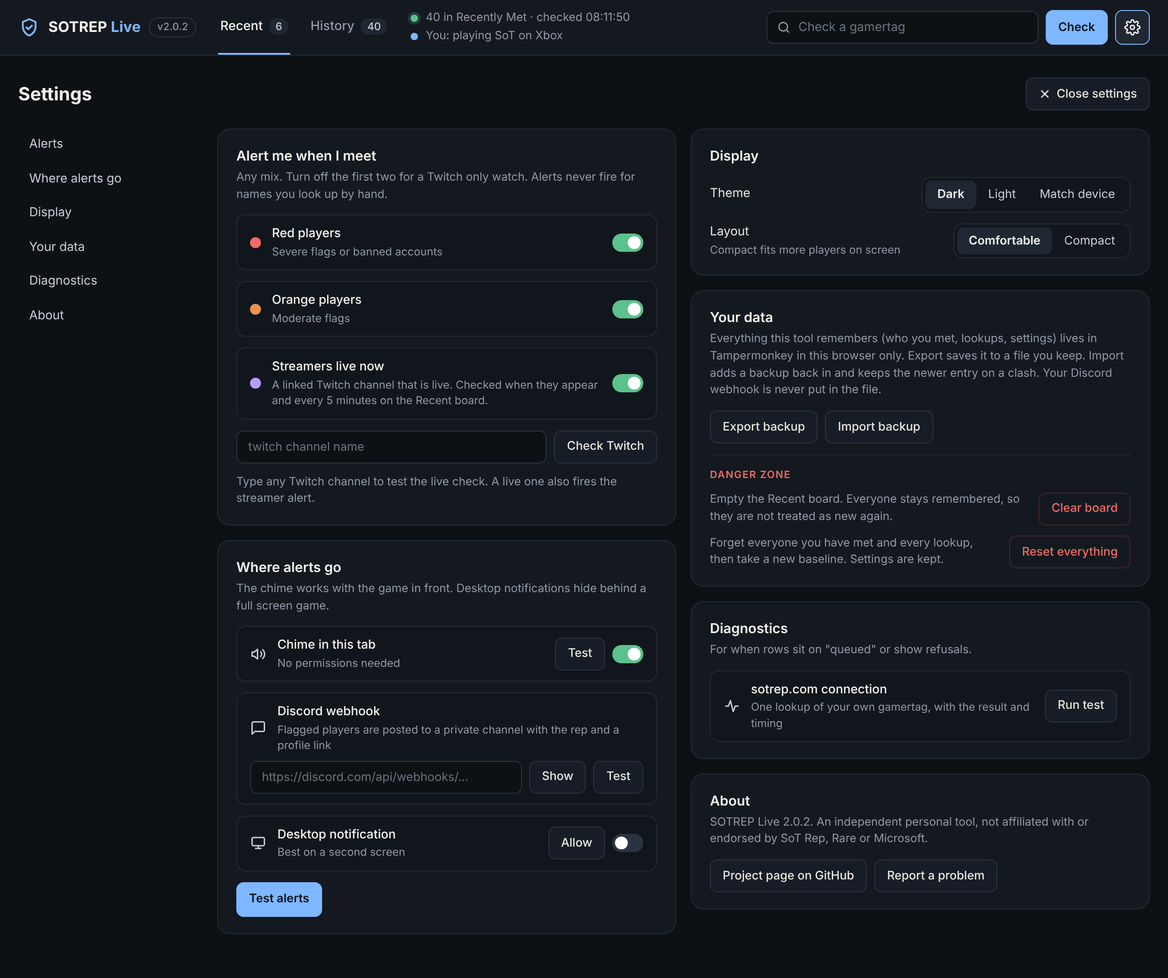
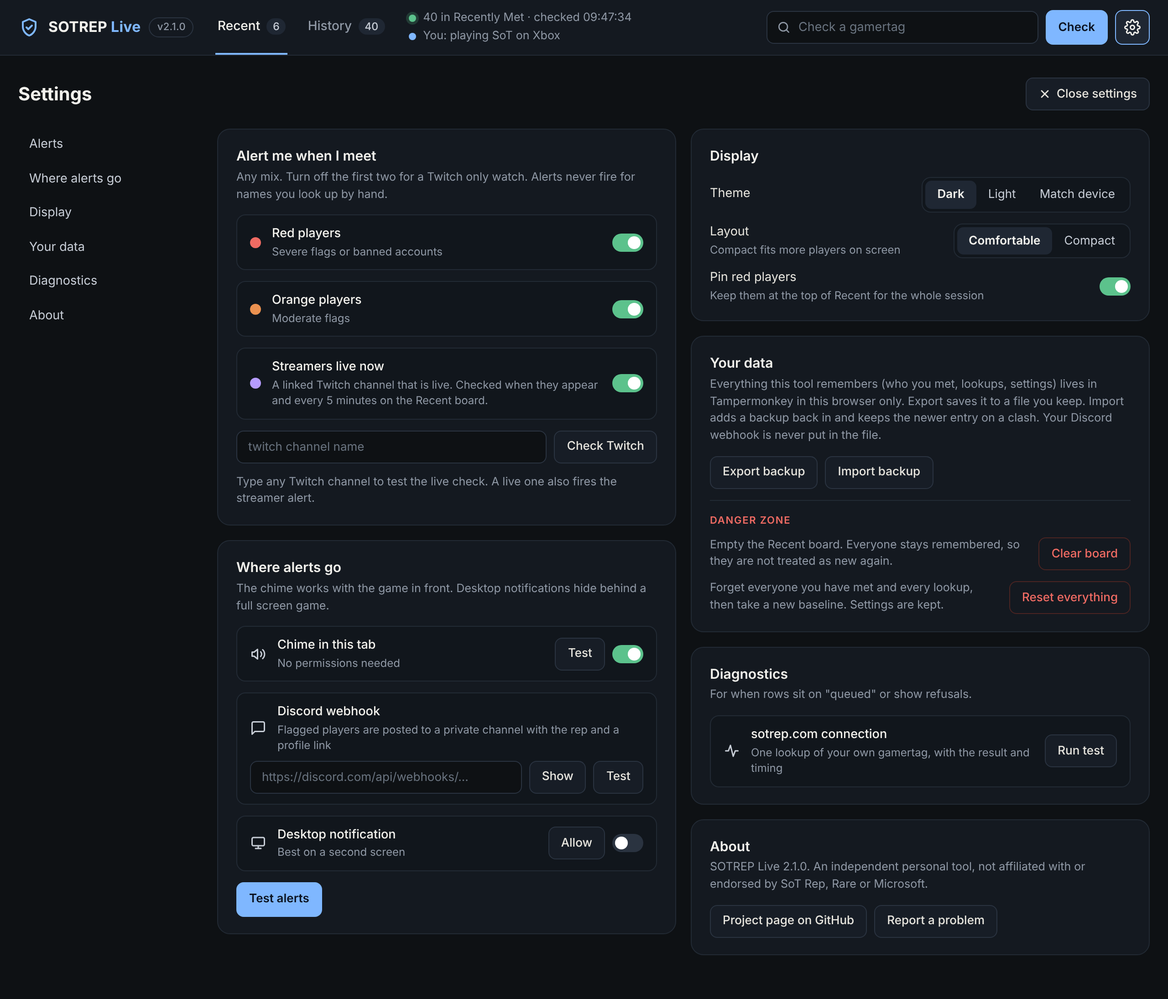
Sessions follow when you actually play on Xbox, red players stay pinned at the top of Recent, and React says when sotrep.com wants a captcha

diff --git a/sotrep-live.user.js b/sotrep-live.user.js
@@ -1,7 +1,7 @@
 // ==UserScript==
 // @name         SOTREP Live - players I meet
 // @namespace    https://www.sotrep.com/
-// @version      2.0.2
+// @version      2.1.0
 // @description  Watches the Sea of Thieves "Recently Met" list and shows each newly met player with their SOTREP reputation, live, while you play.
 // @homepageURL  https://github.com/MrNickIE/sotrep-live
 // @updateURL    https://raw.githubusercontent.com/MrNickIE/sotrep-live/main/sotrep-live.meta.js
@@ -28,7 +28,8 @@
   - Any gamertag not seen before is a new encounter. It is looked up on sotrep.com via POST /api/search
     (again your own login) and shown at the top of the board with a colour-coded reputation.
   - Everything is cached locally so a player is only looked up once per CACHE_HOURS.
-  - Players from the current session (no gap over SESSION_GAP_MS, 90 minutes) stay on the board across a page refresh.
+  - Players from the current session stay on the board across a page refresh. A session follows your own Xbox status when
+    it is visible, otherwise it is a run of meetings with no gap over SESSION_GAP_MS (90 minutes). See sessionOf.
   - History view lists every name ever recorded, newest first, with a per-row "Look up" button for anyone
     not yet checked. There is deliberately no bulk lookup, to stay gentle on sotrep.com.
   - Reset needs two presses: the first arms the button for a few seconds, the second fires.
@@ -61,8 +62,9 @@
     inList: GM_getValue('inList', null),           // gamertag -> true for everyone present at the last poll (null until first poll)
     missing: GM_getValue('missing', {}),           // gamertag -> consecutive polls absent from the list
     lives: GM_getValue('lives', {}),               // gamertag -> ISO time a Twitch check last found them live (last 30 days)
+    play: GM_getValue('play', null),               // { start, last, seenStart }: the latest stretch your Xbox status said you were playing SoT
     meets: GM_getValue('meets', {}),               // gamertag -> ISO times you met them (last 30 days, newest last)
-    ui: Object.assign({ theme: 'dark', layout: 'comfortable' }, GM_getValue('ui', {})),
+    ui: Object.assign({ theme: 'dark', layout: 'comfortable', pinRed: true }, GM_getValue('ui', {})),
     lastVersion: GM_getValue('lastVersion', null), // the version that last ran, so "what's new" shows once per update
     alerts: Object.assign(
       { sound: true, discord: '', desktop: false, severe: true, moderate: true, streamers: true },
@@ -125,21 +127,53 @@
   const LIVE_GAP_MS = 2000;           // pause between Twitch page checks
   const LIVE_FIRST_RECHECK_MS = 60e3; // a first check that says not live (or fails) is trusted only this long, once per streamer
 
-  // Restore the whole current session so a refresh does not wipe the board mid-session: newest first, back
-  // until a gap over SESSION_GAP_MS. If the newest is itself older than that, a new session starts empty.
+  // ---------- what counts as a session ----------
+  // Best: your own Xbox status, which the presence check already reads every 5 minutes (15 when the tab is hidden).
+  // A stretch of checks that say you are playing SoT is one sitting; PLAY_GAP_MS without one ends it. If the board
+  // saw the sitting begin (an earlier check said you were not playing), the session starts then, which splits two
+  // sittings in one evening. If the page opened mid-game, it reaches back to the first meeting as well.
+  // Fallback, when Xbox shares nothing: a run of meetings with no gap over SESSION_GAP_MS (90 minutes).
+  const PLAY_GAP_MS = 25 * 60e3;   // not seen playing for this long: that sitting is over (hidden-tab checks are 15 min apart)
+  const XBOX_LAG_MS = 10 * 60e3;   // Xbox can be a few minutes late to say you are playing
+  function playSpan() {
+    const p = state.play;
+    if (!p || typeof p !== 'object') return null;
+    const start = Date.parse(p.start), last = Date.parse(p.last);
+    if (!(start > 0) || !(last >= start)) return null;
+    return { start, last, seenStart: p.seenStart === true };
+  }
+  // hits: [[time, gamertag]] newest first. untilNow: the session has to reach the present (a page load), not just
+  // the latest meeting. Returns { start, end, members, playing, xbox } or null.
+  function sessionOf(hits, untilNow) {
+    if (!hits.length) return null;
+    const now = Date.now(), end = hits[0][0];
+    const members = new Set();
+    let start = end, prev = untilNow ? now : end;
+    for (const [t, gt] of hits) {
+      if (prev - t > SESSION_GAP_MS) break;
+      start = t; prev = t; members.add(gt);
+    }
+    const sp = playSpan();
+    if (sp) {
+      const playing = now - sp.last < PLAY_GAP_MS;
+      const covers = untilNow ? playing : end >= sp.start - XBOX_LAG_MS && end <= sp.last + PLAY_GAP_MS;
+      if (covers) {
+        if (sp.seenStart) { members.clear(); start = sp.start; } else start = members.size ? Math.min(start, sp.start) : sp.start;
+        for (const [t, gt] of hits) if (t >= sp.start - XBOX_LAG_MS) members.add(gt);
+        return { start, end: playing ? now : Math.max(end, sp.last), members, playing, xbox: true };
+      }
+    }
+    return members.size ? { start, end, members, playing: false, xbox: false } : null;
+  }
+  // Restore the whole current session so a refresh does not wipe the board mid-session (see sessionOf).
   // Baseline names (everyone present on the very first poll) are never "recent", whatever their stamp.
   function restoreRecent() {
-    const all = Object.entries(state.seen)
+    const hits = Object.entries(state.seen)
       .filter(([, iso]) => iso !== state.baselineAt && Date.parse(iso) > 0)
-      .sort((a, b) => Date.parse(b[1]) - Date.parse(a[1]));
-    const keep = [];
-    let prev = Date.now();
-    for (const [gt, iso] of all) {
-      const t = Date.parse(iso);
-      if (prev - t > SESSION_GAP_MS || keep.length >= RECENT_MAX) break;
-      keep.push(gt); prev = t;
-    }
-    session.order = keep;
+      .map(([gt, iso]) => [Date.parse(iso), gt])
+      .sort((a, b) => b[0] - a[0]);
+    const s = sessionOf(hits, true);
+    session.order = s ? hits.filter(([, gt]) => s.members.has(gt)).slice(0, RECENT_MAX).map(([, gt]) => gt) : [];
   }
   restoreRecent();
 
@@ -572,6 +606,7 @@
       const paused = (session.pauseUntil && Date.now() < session.pauseUntil) || session.sotrepSignedOut;
       const x = me && !paused ? await sotrepGet(`/api/player/${encodeURIComponent(me.xuid)}/xbl-info`) : null;
       meOfflineChecks = saysOffline(x) ? meOfflineChecks + 1 : 0;
+      notePlaying(x);
       showMe(x);
     } catch (e) {
       showMe(null);
@@ -587,6 +622,19 @@
   const OFFLINE_CHECKS_TO_WARN = 2;
   let meOfflineChecks = 0;
   const saysOffline = (x) => !!x && !x.is_playing && /offline|last seen/i.test(String(x.presence_text || ''));
+  // Keeps the current sitting up to date from your Xbox status (see sessionOf). No status at all says nothing.
+  let meNotPlayingAt = 0;
+  function notePlaying(x) {
+    if (!x) return;
+    const now = Date.now(), iso = new Date(now).toISOString();
+    if (x.is_playing) {
+      const sp = playSpan();
+      if (sp && now - sp.last <= PLAY_GAP_MS) state.play.last = iso;
+      else state.play = { start: iso, last: iso, seenStart: !!meNotPlayingAt && now - meNotPlayingAt <= PLAY_GAP_MS };
+      save(['play']);
+      if (listEl) render();
+    } else if (String(x.presence_text || '').trim()) meNotPlayingAt = now;
+  }
   function showMe(x) {
     if (!meEl) return;
     if (!x) { meEl.style.display = 'none'; return; }
@@ -871,6 +919,7 @@
     if (plain(d.ui)) {
       if (['dark', 'light', 'auto'].includes(d.ui.theme)) state.ui.theme = d.ui.theme;
       if (['comfortable', 'compact'].includes(d.ui.layout)) state.ui.layout = d.ui.layout;
+      if (typeof d.ui.pinRed === 'boolean') state.ui.pinRed = d.ui.pinRed;
     }
     save();
     restoreRecent();
@@ -880,6 +929,11 @@
   // ---------- what's new ----------
   // One short list per release, shown once after an update. A fresh install sees nothing: it has nothing to compare to.
   const WHATS_NEW = {
+    '2.1.0': [
+      'Sessions follow when you actually play. The board reads your Xbox status (the same check as before, no extra requests), so the session card says "Playing since" and two sittings in one evening stay apart. If Xbox hides your status, it falls back to the old rule: a gap of over 90 minutes between meetings.',
+      'Red players stay pinned at the top of Recent for the whole session, under Watch out. Turn it off in Settings, Display.',
+      'If sotrep.com asks for a captcha while you react, the board says so and offers Open sotrep.com, just like lookups.',
+    ],
     '2.0.2': [
       'Reacting is safer: your reactions are read from sotrep.com every time you open React, and the buttons only appear once they are known, so a click can never undo a reaction you left elsewhere.',
       'Reactions on different cards are spaced out properly, and nothing is sent while sotrep.com has asked us to wait.',
@@ -1015,6 +1069,10 @@
 
     const themeCtl = segmented([['dark', 'Dark'], ['light', 'Light'], ['auto', 'Match device']], state.ui.theme, (v) => { state.ui.theme = v; save(['ui']); applyDisplay(); });
     const layoutCtl = segmented([['comfortable', 'Comfortable'], ['compact', 'Compact']], state.ui.layout, (v) => { state.ui.layout = v; save(['ui']); applyDisplay(); });
+    const pinSw = h('input', { type: 'checkbox', class: 'sw', 'aria-label': 'Pin red players to the top of Recent' });
+    pinSw.checked = state.ui.pinRed !== false;
+    pinSw.addEventListener('change', () => { state.ui.pinRed = pinSw.checked; save(['ui']); render(); });
+    const pinRow = h('div', { class: 'setrow' }, h('span', {}, 'Pin red players', h('span', { class: 'hint' }, 'Keep them at the top of Recent for the whole session')), pinSw);
     const backupMsg = h('span', { class: 'msg' });
     const exportBtn = h('button', { class: 'btn' }, 'Export backup');
     exportBtn.addEventListener('click', () => { backupMsg.textContent = exportBackup(); });
@@ -1028,7 +1086,7 @@
       if (f.size > 20e6) { backupMsg.textContent = 'That file is too big to be a backup.'; return; }
       const r = importBackup(await f.text());
       if (r.error) { backupMsg.textContent = r.error; return; }
-      themeCtl.pick(state.ui.theme); layoutCtl.pick(state.ui.layout); applyDisplay();
+      themeCtl.pick(state.ui.theme); layoutCtl.pick(state.ui.layout); pinSw.checked = state.ui.pinRed !== false; applyDisplay();
       backupMsg.textContent = `Imported: ${r.added} new, ${r.updated} updated`;
       render();
     });
@@ -1057,6 +1115,7 @@
       card('display', 'Display', null,
         h('div', { class: 'setrow' }, h('span', {}, 'Theme'), themeCtl),
         h('div', { class: 'setrow' }, h('span', {}, 'Layout', h('span', { class: 'hint' }, 'Compact fits more players on screen')), layoutCtl),
+        pinRow,
       ),
       card('data', 'Your data', 'Everything this tool remembers (who you met, lookups, settings) lives in Tampermonkey in this browser only. Export saves it to a file you keep. Import adds a backup back in and keeps the newer entry on a clash. Your Discord webhook is never put in the file.',
         h('div', { class: 'field' }, exportBtn, importBtn, fileIn), backupMsg,
@@ -1253,8 +1312,17 @@
         : 'Taking baseline…'));
       return;
     }
-    listEl.append(h('div', { class: 'section' }, 'Recent encounters', h('span', {}, session.order.length), h('span', { class: 'note' }, 'Newest first')));
-    for (const gt of session.order) listEl.append(renderRow(gt, false));
+    // red players stay at the top for the whole session, so they do not scroll away as you meet more people
+    const red = state.ui.pinRed !== false ? session.order.filter(gt => repClass(state.cache[gt] && state.cache[gt].rep) === 'severe') : [];
+    const rest = session.order.filter(gt => !red.includes(gt));
+    if (red.length) {
+      listEl.append(h('div', { class: 'section' }, 'Watch out', h('span', {}, red.length), h('span', { class: 'note' }, 'Red players stay at the top for the session')));
+      for (const gt of red) listEl.append(renderRow(gt, false));
+    }
+    if (rest.length) {
+      listEl.append(h('div', { class: 'section' }, red.length ? 'Everyone else' : 'Recent encounters', h('span', {}, rest.length), h('span', { class: 'note' }, 'Newest first')));
+      for (const gt of rest) listEl.append(renderRow(gt, false));
+    }
   }
 
   // ---------- session recap ----------
@@ -1265,14 +1333,9 @@
     const hits = [];
     for (const gt of Object.keys(state.seen)) for (const t of meetList(gt)) hits.push([Date.parse(t), gt]);
     hits.sort((a, b) => b[0] - a[0]);
-    if (!hits.length) return null;
-    const end = hits[0][0];
-    let start = end, prev = end;
-    const members = new Set();
-    for (const [t, gt] of hits) {
-      if (prev - t > SESSION_GAP_MS) break;
-      start = t; prev = t; members.add(gt);
-    }
+    const ses = sessionOf(hits, false);
+    if (!ses) return null;
+    const { start, end, members } = ses;
     const n = { red: 0, orange: 0, yellow: 0, clean: 0, unchecked: 0 };
     let again = 0, streamers = 0, liveNow = 0, wasLive = 0, worst = null, best = null;
     const onAir = [];
@@ -1296,7 +1359,7 @@
     const hm = (t) => new Date(t).toLocaleTimeString('en-GB', { hour: '2-digit', minute: '2-digit' });
     const mins = Math.max(1, Math.round((end - start) / 60e3));
     const len = mins >= 60 ? `${Math.floor(mins / 60)} h ${mins % 60} min` : `${mins} min`;
-    const live = Date.now() - end < 3 * 3600e3;
+    const live = ses.playing || Date.now() - end < 3 * 3600e3;
     const parts = [['red', '--c-sev'], ['orange', '--c-mod'], ['yellow', '--c-lt'], ['clean', '--c-ok'], ['unchecked', '--c-l3']].filter(([k]) => n[k]);
     const key = (k, colour) => h('span', { class: 'k' }, h('span', { class: 'dot', style: `background:var(${colour})` }), h('b', {}, n[k]), ' ' + (k === 'unchecked' ? 'not checked' : k));
     const nameLink = (o, href) => h('a', { class: 'name', href, target: '_blank', rel: 'noopener' }, o.gt);
@@ -1310,7 +1373,8 @@
       h('div', { class: 'recap-a' },
         h('span', { class: 'lbl' }, live ? 'This session' : `Last session, ${dayLabel(new Date(end)).toLowerCase()}`),
         h('span', { class: 'big' }, `${members.size} player${members.size > 1 ? 's' : ''}`),
-        h('span', { class: 'sub' }, `${hm(start)} to ${hm(end)}, ${len}`)),
+        h('span', { class: 'sub', title: ses.xbox ? 'Start and end come from your Xbox status' : 'Worked out from when you met players: a gap of over 90 minutes starts a new session' },
+          ses.playing ? `Playing since ${hm(start)}, ${len}` : `${hm(start)} to ${hm(end)}, ${len}`)),
       h('div', { class: 'recap-b' },
         h('div', { class: 'riskbar', role: 'img', 'aria-label': parts.map(([k]) => `${n[k]} ${k === 'unchecked' ? 'not checked' : k}`).join(', ') },
           parts.map(([k, colour]) => h('span', { style: `flex:${n[k]};background:var(${colour})` }))),
@@ -1589,6 +1653,13 @@
   function reactError(res, label) {
     const err = res.data && res.data.error;
     if (res.status === 401) { if (!session.sotrepSignedOut) { session.sotrepSignedOut = true; refreshStatus(); } return { msg: 'Sign in to sotrep.com to react (button at the top)', keep: false }; }
+    if (res.status === 403 && res.data && res.data.require_captcha) {
+      // the same pause lookups use: the status line offers Open sotrep.com, and coming back to this tab lifts it
+      session.pauseUntil = Date.now() + 300e3; session.pauseFix = true;
+      session.pauseReason = 'sotrep.com wants a captcha: open sotrep.com, search any name there, then come back';
+      refreshStatus();
+      return { msg: 'sotrep.com wants a quick captcha check. Use Open sotrep.com at the top, do it there, then come back and Reload', keep: false };
+    }
     if (err === 'reaction_cooldown') return { msg: `Wait a second before selecting ${label} again`, keep: true };
     if (err === 'account_too_new') return { msg: 'Your sotrep.com account is too new to react yet', keep: true };
     if (err === 'terms_not_accepted') return { msg: 'Accept the sotrep.com terms first: react once on their profile there, then Reload', keep: false };
@@ -1958,7 +2029,7 @@
   }
   function clearSession() { session.order = []; session.queue = []; render(); setStatus(statusLine()); }
   function resetAll() {
-    state.seen = {}; state.cache = {}; state.baselined = false; state.baselineAt = null; state.inList = null; state.missing = {}; state.meets = {}; state.lives = {}; save();
+    state.seen = {}; state.cache = {}; state.baselined = false; state.baselineAt = null; state.inList = null; state.missing = {}; state.meets = {}; state.lives = {}; state.play = null; save();
     session.order = []; session.queue = [];
     poll();
   }

diff --git a/tools/test.js b/tools/test.js
@@ -82,7 +82,7 @@ async function fresh(browser, initial, scheme = 'dark', opts = {}) {
     await q('button.tab:has-text("Compact")').click();
     check('compact layout applied', await q('.root.compact').count() === 1, 'no compact class');
     const stored = await page.evaluate(() => __store.ui);
-    eq('display choice stored', stored, { theme: 'light', layout: 'compact' });
+    eq('display choice stored', stored, { theme: 'light', layout: 'compact', pinRed: true });
 
     // closing settings
     await page.keyboard.press('Escape');   // earlier steps left the panel open
@@ -309,6 +309,96 @@ async function fresh(browser, initial, scheme = 'dark', opts = {}) {
     check('a History search shows the social it matched', (await q('.row:has-text("Player Six") .soc:not(.more)').allTextContents()).some(t => t.includes('alt7')), 'alt7 hidden');
     await q('.filters input[type=text]').fill('');
     eq('no page errors with many socials', errors, []);
+    await ctx.close();
+  }
+
+  // ----- red players pinned to the top -----
+  {
+    const st = demo.store();
+    st.cache['Player Six'].rep = { profile_id: 1, severe_count: 1 };   // the oldest player on the board
+    const { ctx, page, q, errors } = await fresh(browser, st);
+    const names = async () => (await q('.list .row .name').allTextContents());
+    eq('red players first, newest first', (await names()).slice(0, 2), ['Player One', 'Player Six']);
+    check('under a Watch out heading', /Watch out\s*2/.test(await q('.list .section').first().textContent()), await q('.list .section').first().textContent());
+    await q('button[title="Settings"]').click();
+    await q('.sw[aria-label="Pin red players to the top of Recent"]').evaluate(c => c.click());
+    await q('.panel-head button:has-text("Close")').click();
+    eq('switched off: plain newest first', (await names()).slice(-1), ['Player Six']);
+    eq('the choice is kept', await page.evaluate(() => __store.ui.pinRed), false);
+    eq('no page errors with pinning', errors, []);
+    await ctx.close();
+  }
+
+  // ----- sessions follow your Xbox status -----
+  {
+    const t = (m) => new Date(Date.now() - m * 60e3).toISOString();
+    const six = ['Player One', 'Player Two', 'Player Three', 'Player Four', 'Player Five', 'Player Six'];
+    const withTimes = (mins, play) => { const st = demo.store(); st.meets = {}; six.forEach((gt, i) => { st.seen[gt] = t(mins[i]); }); st.play = play; return st; };
+    // the board saw this sitting begin 20 minutes ago: meetings before it belong to the last one, even under 90 minutes apart
+    const a = await fresh(browser, withTimes([5, 15, 60, 100, 130, 400], { start: t(20), last: t(2), seenStart: true }));
+    eq('a sitting the board saw begin keeps only its own players', await a.q('.list .row').count(), 2);
+    const ra = await a.q('.recap').textContent();
+    check('session card counts that sitting and says when it began', /2 players/.test(ra) && /Playing since/.test(ra), ra);
+    await a.ctx.close();
+    // a long quiet spell with no meetings does not split a sitting
+    const b = await fresh(browser, withTimes([5, 180, 300, 400, 500, 600], { start: t(200), last: t(1), seenStart: true }));
+    eq('a quiet spell over 90 minutes stays one session while you play', await b.q('.list .row').count(), 2);
+    await b.ctx.close();
+    // the page opened mid-game: the earlier meetings still count
+    const c = await fresh(browser, withTimes([5, 40, 70, 300, 400, 500], { start: t(10), last: t(1), seenStart: false }));
+    eq('opened mid-game: meetings before the first check still count', await c.q('.list .row').count(), 3);
+    await c.ctx.close();
+    // the board watches you go from not playing to playing
+    const init = `window.__skew = 0; const now = Date.now.bind(Date); Date.now = () => now() + window.__skew;
+      window.__xbl = { is_playing: false, presence_text: 'Last seen 5m ago: Xbox App' };
+      const real = window.GM_xmlhttpRequest; window.GM_xmlhttpRequest = (o) => {
+        if (!o.url.includes('xbl-info')) return real(o);
+        window.__calls.push(o.url);
+        setTimeout(() => o.onload({ status: 200, responseText: JSON.stringify(window.__xbl), responseHeaders: '' }), 20);
+      };`;
+    const d = await fresh(browser, { ...demo.store(), play: null }, 'dark', { initScript: init });
+    await d.page.waitForTimeout(4500);
+    eq('not playing: no sitting yet', await d.page.evaluate(() => __store.play), null);
+    await d.page.evaluate(() => { window.__xbl = { is_playing: true, presence_text: 'Sea of Thieves' }; window.__skew += 6 * 60e3; document.dispatchEvent(new Event('visibilitychange')); });
+    await d.page.waitForTimeout(800);
+    eq('then playing: a sitting starts, and the board saw it begin', await d.page.evaluate(() => __store.play && __store.play.seenStart), true);
+    check('session card says playing since', /Playing since/.test(await d.q('.recap').textContent()), await d.q('.recap').textContent());
+    eq('no page errors with Xbox sessions', d.errors, []);
+    await d.ctx.close();
+  }
+
+  // ----- sotrep.com wants a captcha while you react -----
+  {
+    const st = demo.store();
+    st.cache['Player One'].rep.xuid = 111;
+    const init = `window.__toggle = 403; window.__rx = 0;
+      const real = window.GM_xmlhttpRequest; window.GM_xmlhttpRequest = (o) => {
+        if (/\\/reviews\\?|\\/reactions\\//.test(o.url)) {
+          window.__rx++;
+          const toggle = o.url.includes('/toggle');
+          setTimeout(() => o.onload({ status: toggle ? window.__toggle : 200, responseText: toggle ? '{"require_captcha":true}' : JSON.stringify({ reactions: {}, my_reactions: [] }), responseHeaders: '' }), 20);
+          return;
+        }
+        return real(o);
+      };`;
+    const { ctx, page, q, errors } = await fresh(browser, st, 'dark', { initScript: init });
+    const one = q('.row:has-text("Player One")');
+    await one.locator('.react-btn').click();
+    await page.waitForTimeout(400);
+    await one.locator('.rchip:has-text("Skilled")').click();
+    await page.waitForTimeout(1900);
+    eq('captcha: the status line offers Open sotrep.com', (await q('.status .signin').textContent()).trim(), 'Open sotrep.com');
+    check('captcha: the card says what to do', /captcha/.test(await one.locator('.react').textContent()), await one.locator('.react').textContent());
+    const sent = await page.evaluate(() => __rx);
+    await one.locator('.react button:has-text("Reload")').click();
+    await page.waitForTimeout(1900);
+    eq('captcha: nothing more is sent until you come back', await page.evaluate(() => __rx), sent);
+    await page.evaluate(() => window.dispatchEvent(new Event('focus')));
+    await page.waitForTimeout(300);
+    await one.locator('.react button:has-text("Reload")').click();
+    await page.waitForTimeout(1900);
+    eq('captcha: back on the tab, React works again', await one.locator('.rchip').count(), 4);
+    eq('no page errors on a reaction captcha', errors, []);
     await ctx.close();
   }
 

diff --git a/sotrep-live.meta.js b/sotrep-live.meta.js
@@ -1,7 +1,7 @@
 // ==UserScript==
 // @name         SOTREP Live - players I meet
 // @namespace    https://www.sotrep.com/
-// @version      2.0.2
+// @version      2.1.0
 // @description  Watches the Sea of Thieves "Recently Met" list and shows each newly met player with their SOTREP reputation, live, while you play.
 // @homepageURL  https://github.com/MrNickIE/sotrep-live
 // @updateURL    https://raw.githubusercontent.com/MrNickIE/sotrep-live/main/sotrep-live.meta.js

diff --git a/README.md b/README.md
@@ -46,10 +46,10 @@ Whatever the browser, allow the one-time requests Tampermonkey shows for sotrep.
 
 ## Using it
 
-- **Recent** shows your current session: everyone met with no gap over 90 minutes (survives a refresh). A **session card** at the top sums up the current run of play (no gap over 90 minutes): how many players, a bar showing how many were red, orange, yellow and clean, how many you had met before and how many are streamers, plus who to **watch out** for and who is **live on Twitch** right now. A row that says **met 3 times, before that yesterday** is someone you have met again; hover it for every date.
+- **Recent** shows your current session (it survives a refresh). A session follows your own Xbox status: it starts when the board sees you start playing Sea of Thieves and ends after about 25 minutes of not playing, so two sittings in one evening stay apart and a long quiet spell does not split one. If Xbox hides your status, a session is a run of meetings with no gap over 90 minutes. **Red players are pinned** at the top under Watch out for the whole session (Settings, Display turns this off). A **session card** at the top sums it up, "Playing since 19:02" while you play: how many players, a bar showing how many were red, orange, yellow and clean, how many you had met before and how many are streamers, plus who to **watch out** for and who is **live on Twitch** right now. A row that says **met 3 times, before that yesterday** is someone you have met again; hover it for every date.
 - **History** is a table of everyone met in the last 30 days, newest first and grouped by day: reputation, how many times you met them, tags and socials, and when. Anyone not yet checked has a **Look up** button. Older encounters and names from the baseline sit in collapsed groups at the bottom. History has a **search box** (name, social handle or tag) and filters for colour (each showing how many players it holds), streamers, and players met more than once. After 30 days a player's stored rep is cut down to their colour and summary, which keeps the script light; meet them again and they are looked up afresh.
 - **Check a gamertag** looks up any name you type, for players you spot in game before Rare registers them. A Twitch channel name works too: if no pirate has that gamertag, sotrep is asked for the pirate linked to that Twitch account.
-- **React** on a Recent card opens the same reactions a sotrep.com profile has (Suspicious, Skilled, Clown, Friendly) with their counts. One click adds yours, a second click takes it back. It uses your sotrep.com login, only appears for players the game put on your board (not names you typed), and sends nothing until you press it.
+- **React** on a Recent card opens the same reactions a sotrep.com profile has (Suspicious, Skilled, Clown, Friendly) with their counts. One click adds yours, a second click takes it back. It uses your sotrep.com login, only appears for players the game put on your board (not names you typed), and sends nothing until you press it. If sotrep.com asks for a captcha, the status line offers **Open sotrep.com**; do it there and come back.
 - Alerts fire only for players the game registered on its own. Manual lookups (the Check box, History's Look up buttons) never alert.
 - **Settings** (the gear button, top right) opens the alert settings, the display choices, backup, diagnostics and an About section with a link back to this page (the SOTREP Live logo links here too). Switch on what you want to be told about: red (severe flags or banned accounts), orange (moderate flags), purple (a linked streamer who is live), in any mix. A chime plays in the tab by default. Paste a Discord webhook URL to have flagged players posted to a private channel with the rep summary and a profile link, which is the reliable route while a game has the screen. A Windows desktop notification is also available but is hidden behind a full-screen game. **Test alerts** fires every enabled channel once.
 - **Streamers**: a player whose sotrep profile links a Twitch channel is checked against Twitch when they appear, once more a minute later if that first check says not live (Twitch can lag a stream that has just started), then every five minutes while on the Recent board. If they are live, the row gets a purple **LIVE on Twitch** pill that opens the stream, and the streamer alert fires (chime, Discord embed with the stream link). Offline streamers just show their Twitch link. The panel has a box to test the live check against any channel name.
